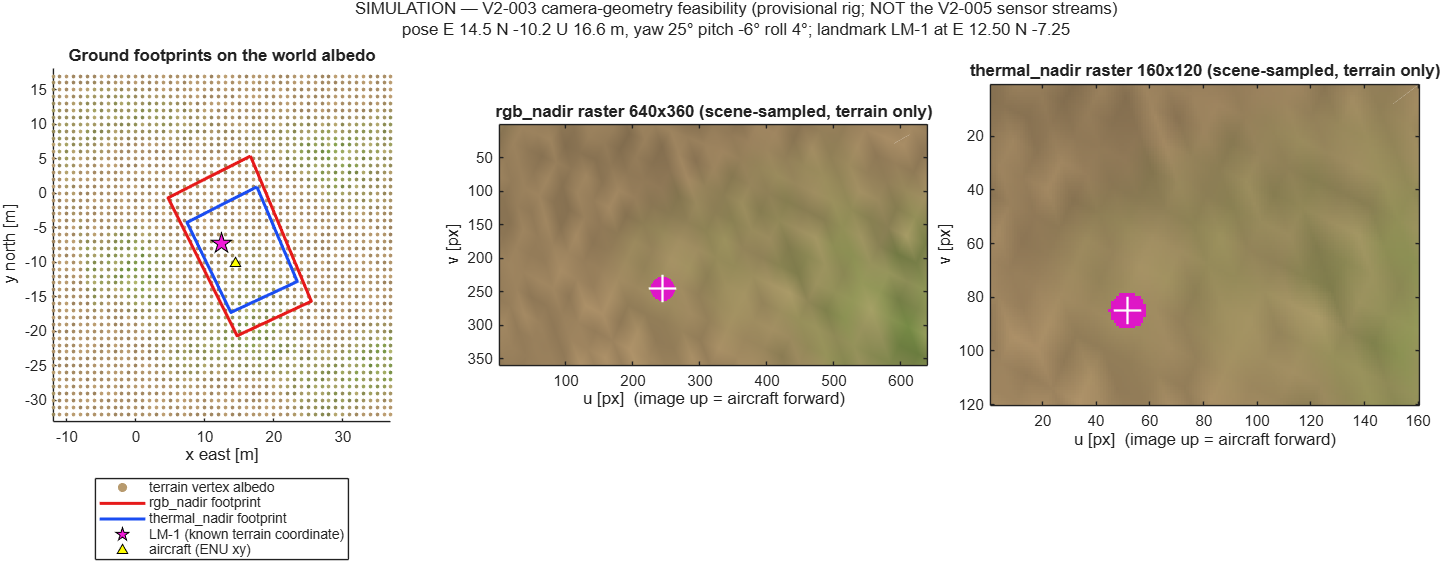
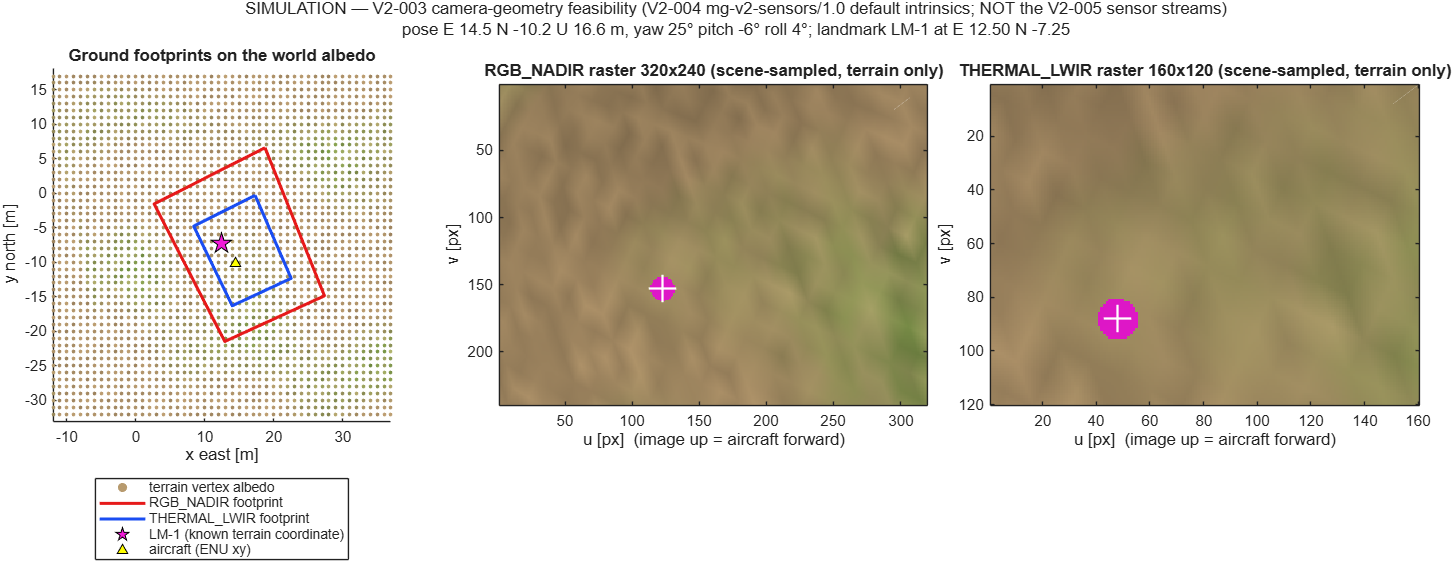
V2-003: evidence updated for V2-004 alignment (clean clone 3091e2f: 44/44; camera geometry at V2-004 intrinsics)

diff --git a/v2/evidence/V2-003.md b/v2/evidence/V2-003.md
@@ -5,7 +5,7 @@ Owner: Rahil
 Kind: BUILD
 Tester: Rahil, using Claude Code (Opus 5.5) through the official MathWorks MATLAB MCP Server (v0.16.0) on the development host, with a visible MATLAB desktop (real figures rendered)
 Date: 2026-11-01 (IST)
-Result: PASS for every V2-003 test that was executed on the development host. `testV2003Scene` has 19 tests: 19 PASS, 0 FAIL, 0 INCOMPLETE. Together with the V2-002 suite, a clean clone at `d7523d4` gives 41/41. The live integrated demo was run and real screenshots were captured. **The macOS target host is NOT TESTED** (§8).
+Result: PASS for every V2-003 test that was executed on the development host. `testV2003Scene` has 22 tests: 22 PASS, 0 FAIL, 0 INCOMPLETE. Together with the V2-002 suite, a clean clone at `3091e2f` gives **44/44**. The live integrated demo was run and real screenshots were captured. **The macOS target host is NOT TESTED** (§8).
 SIMULATION ONLY: a synthetic terrain and a virtual aircraft. No real camera feed, sensor stream or hazard map exists, and none is claimed.
 
 ## 1. Summary
@@ -42,9 +42,9 @@ The body origin sits at the gear-contact plane, so a pose at ground height stand
 
 Follow, chase and orbit keep the aircraft at the view centre, so it cannot be lost in turns, climbs or landing (s06, s09, s10).
 
-**Sensor geometry for V2-005** (`mgv2.scene.sensorRig`, PROVISIONAL pending V2-004):
-- nadir RGB 640×360 with 70° HFOV, and nadir thermal 160×120 with 50° HFOV, using pinhole intrinsics and explicit body→sensor extrinsics;
-- a nadir LiDAR entry;
+**Sensor geometry for V2-005** (`mgv2.scene.sensorRig`, **aligned to the frozen V2-004 contract `mg-v2-sensors/1.0`**, which reached DONE on `main` during this work; see §2a):
+- `RGB_NADIR` 320×240 with 70° HFOV, and `THERMAL_LWIR` 160×120 with 45° HFOV, using pinhole K with explicit zero distortion and an active `rotation_sensor_to_body` plus `translation_body_m`;
+- `LIDAR_TERRAIN` with a 100 m maximum range;
 - functions: `sensorPose`, `projectToImage`, `pixelRays`, `intersectTerrain`, `cameraFootprint`, and a scene-sampled raster `renderNadirRaster` for feasibility;
 - `toUavScenario` exports **the same triangles** as UAV Toolbox `"custom"` meshes. The toolbox LiDAR returns ranges matching `heightAt` (s17).
 
@@ -62,7 +62,27 @@ Research, the measured renderer spike and the decisions are in [`v2/docs/V2_002_
   - Pixel coordinates are 1-based with pixel centres at integers.
 - **UAV Toolbox LiDAR convention (verified):** on a NED/FRD `uavPlatform`, the sensor frame follows FRD, so **positive elevation points down**. `ElevationLimits [60 90]` sees the ground and `[-90 -60]` does not. The sensor must also be mounted outside the platform's own body mesh, or it returns self-hits (found and fixed during testing, s17).
 
-## 3. Source inventory (commit `d7523d4`, branch stacked on V2-002 `704106b`)
+## 2a. Alignment with V2-004 (frozen during this task)
+
+- V2-004 `mg-v2-sensors/1.0` was merged DONE on `main` (#51, #54) while V2-003 was in progress. The first rig was explicitly provisional, so it was **compared field by field and aligned rather than silently diverging**:
+  - controlled `sensor_id` values `RGB_NADIR` / `THERMAL_LWIR` / `LIDAR_TERRAIN`;
+  - RGB 320×240 at 70° (was 640×360) and thermal 45° HFOV (was 50°);
+  - LiDAR maximum range 100 m (was 60 m);
+  - mount as `translation_body_m` plus an active `rotation_sensor_to_body`;
+  - K with explicit zero distortion; `config_origin "ASSUMED"`.
+- **Already consistent, no change:**
+  - quaternion `[w x y z]` with T_world_body mapping body → ENU;
+  - optical frame +x right, +y down, +z along the axis;
+  - principal point ((W+1)/2, (H+1)/2) and fx = (W/2)/tan(HFOV/2);
+  - ENU world with NED only in the adapter.
+- **V2-004 items assigned to V2-003, now tested:**
+  - SC-06: nadir transform; yaw rotates the footprint and bank shifts it (s21);
+  - SC-16: rigid round trip < 1e-8 m (s22);
+  - analytical fixtures C2 (central ray from 5 m hits [10, 20, 0] at exactly 5 m) and C5 (fx = 228.50 px, cx = 160.5) (s20).
+- **Numeric mount offsets** (payload-pod positions) are V2-003 assumptions; V2-004 fixes the format, not the values.
+- **Not V2-003 scope:** the sample envelope, scheduler, Kelvin forward model, LiDAR noise and validity enumerations are V2-005.
+
+## 3. Source inventory (code commits `d7523d4` and `3091e2f`, branch stacked on V2-002)
 
 | File | Purpose |
 |---|---|
@@ -70,11 +90,11 @@ Research, the measured renderer spike and the decisions are in [`v2/docs/V2_002_
 | `heightAt.m`, `albedoAt.m`, `terrainProvider.m` | Queries on the drawn triangles; V2-002 terrain provider |
 | `objectMesh.m`, `quadrotorModel.m` | Deterministic object meshes; scaled quadrotor |
 | `SceneRenderer.m`, `cameraView.m`, `viewContains.m` | Renderer, 5 camera modes, conservative in-view check |
-| `sensorRig.m`, `sensorPose.m`, `projectToImage.m`, `pixelRays.m`, `intersectTerrain.m`, `cameraFootprint.m`, `renderNadirRaster.m` | Provisional sensor geometry for V2-005 |
+| `sensorRig.m`, `sensorPose.m`, `projectToImage.m`, `pixelRays.m`, `intersectTerrain.m`, `cameraFootprint.m`, `renderNadirRaster.m` | Sensor geometry for V2-005 (V2-004 default intrinsics; assumed mount offsets) |
 | `toUavScenario.m` | Export of the same geometry to UAV Toolbox meshes |
 | `v2/matlab/mgv2SceneDemo.m` | Live V2-002 engine → V2-003 scene demo (camera schedule, pacing, screenshots, timing) |
 | `v2/matlab/mgv2CameraGeometryDemo.m` | Landmark projection / back-projection / raster / footprint closed loop |
-| `v2/matlab/tests/testV2003Scene.m` | 19 tests |
+| `v2/matlab/tests/testV2003Scene.m` | 22 tests |
 
 **Dependencies:** `requiredFilesAndProducts` reports **MATLAB only** for every shipped V2-003 file except `toUavScenario.m`, which needs **UAV Toolbox** (optional for the display, used for V2-005 LiDAR). Test s17 is skipped by assumption when UAV Toolbox is absent.
 
@@ -84,7 +104,9 @@ Environment: Windows 11 Pro (build 26300), MATLAB R2026b Update 1 (26.2), UAV To
 
 ## 5. Commands and observed output
 
-Command: MCP `evaluate_matlab_code` in a **fresh `git clone`** of `task/V2-003-3d-terrain-visualization` at `d7523d486c89eb04c1a0916f5716c2735623742d` (other checkouts removed from the path; `which mgv2.scene.SceneRenderer` resolved to the clone). Outputs were written outside the clone.
+Command: MCP `evaluate_matlab_code` in **fresh `git clone`s** of `task/V2-003-3d-terrain-visualization` (other checkouts removed from the path; `which` resolved to the clone; outputs written outside the clone; `git status` clean afterwards):
+- `d7523d486c89eb04c1a0916f5716c2735623742d` for the live demo and screenshots. The renderer, world, cameras, aircraft and scene demo are unchanged at `3091e2f` (`git diff` empty).
+- **`3091e2f1d77b228eb09354022607e8171714a380`** (final code) for both test suites and the camera-geometry demo.
 
 ```matlab
 addpath('v2/matlab');
@@ -97,13 +119,15 @@ Observed output (verbatim):
 
 ```text
 testV2002MissionEngine   22 tests | PASS 22 | FAIL 0 | INCOMPLETE 0
-testV2003Scene           19 tests | PASS 19 | FAIL 0 | INCOMPLETE 0
-TOTAL 41 | PASS 41 | FAIL 0 | INCOMPLETE 0 | HEAD d7523d4
-PERF chase: 600 frames, median 24.3 ms, p95 42.0 ms, max 63.8 ms (update+drawnow, visible figure)
-PERF follow: 600 frames, median 23.4 ms, p95 37.4 ms, max 63.6 ms (update+drawnow, visible figure)
-PERF isometric: 600 frames, median 26.3 ms, p95 38.3 ms, max 72.6 ms (update+drawnow, visible figure)
-rgb_nadir: 640x360, landmark projects to (u,v)=(244.58, 245.74) in image=1; back-projected error 1.26e-13 m; raster centroid (244.63, 245.65) -> 0.10 px; valid pixels 230400/230400; footprint ok=1
-thermal_nadir: 160x120, landmark projects to (u,v)=(51.66, 84.99) in image=1; back-projected error 2.91e-14 m; raster centroid (51.82, 85.00) -> 0.16 px; valid pixels 19200/19200; footprint ok=1
+testV2003Scene           22 tests | PASS 22 | FAIL 0 | INCOMPLETE 0
+TOTAL 44 | PASS 44 | FAIL 0 | INCOMPLETE 0 | HEAD 3091e2f
+PERF chase: 600 frames, median 28.0 ms, p95 40.2 ms, max 59.4 ms (update+drawnow, visible figure)
+PERF follow: 600 frames, median 30.4 ms, p95 41.0 ms, max 70.8 ms (update+drawnow, visible figure)
+PERF isometric: 600 frames, median 28.2 ms, p95 43.0 ms, max 70.2 ms (update+drawnow, visible figure)
+RGB_NADIR: 320x240, landmark projects to (u,v)=(122.54, 153.12) in image=1; back-projected error 1.26e-13 m; raster centroid (122.58, 153.20) -> 0.09 px; valid pixels 76800/76800; footprint ok=1
+THERMAL_LWIR: 160x120, landmark projects to (u,v)=(48.04, 88.07) in image=1; back-projected error 2.91e-14 m; raster centroid (48.02, 88.06) -> 0.02 px; valid pixels 19200/19200; footprint ok=1
+
+(live demo, clone d7523d4)
 === MineGuard V2 3-D scene (V2-003) driven by the live mission engine (V2-002) — SIMULATION ONLY ===
 world V2-TRAINING-FIELD-A seed 3003: 25921 vertices, 51200 triangles, 79 objects | run V2RUN-NOMINAL-0001 | dt 0.050 s | render every 2 ticks
   t=   0.05 s  PREFLIGHT    AGL  0.00 m
@@ -132,11 +156,11 @@ git status in the clone afterwards: 0 changes
 | `V2-003-live-t139.95-COMPLETE-orbit.png` | 139.95 s COMPLETE | orbit | Aircraft standing on the pad (skids at ground level) |
 | `V2-003-live-t139.95-COMPLETE-isometric.png` | 139.95 s COMPLETE | isometric | Whole field: relief, survey boundary, pad, north arrow, screen marker |
 | `V2-003-live-t139.95-COMPLETE-topdown.png` | 139.95 s COMPLETE | top-down | Survey area, north up. The trail shows only the **last 600 rendered poses (~60 s)** by design (capped) |
-| `V2-003-camera-geometry-feasibility.png` | fixture pose | — | RGB/thermal ground footprints, landmark, scene-sampled rasters with the projected landmark crosshair |
+| `V2-003-camera-geometry-feasibility.png` | fixture pose (clone `3091e2f`) | — | `RGB_NADIR` 320×240 / `THERMAL_LWIR` 160×120 ground footprints, landmark, scene-sampled rasters with the projected landmark crosshair |
 
 These are actual renders of the simulation state at the stated simulation times. They are not concept art or mock-ups. The camera-geometry rasters are scene-sampled feasibility images of the synthetic terrain, **not** camera footage.
 
-## 7. Test results and traceability (`testV2003Scene.m`, 19/19 PASS)
+## 7. Test results and traceability (`testV2003Scene.m`, 22/22 PASS)
 
 | Test | Mandatory item / acceptance | What is checked |
 |---|---|---|
@@ -154,17 +178,21 @@ These are actual renders of the simulation state at the stated simulation times.
 | s12 | Landmark projection | RGB and thermal at 2 tilted poses: back-projection < 1 cm; landmark inside the footprint; raster centroid < 1.5 px from the projection |
 | s13 | ENU ↔ rendered coordinates | Transform translation, equal aspect, ENU labels, stalk/shadow on the terrain, north arrow along +y |
 | s14 | Stable repeated updates | 1,200 updates create no graphics objects; trail capped at 600 |
-| s15 | Measured performance | Median frame < 100 ms (logged medians 23–26 ms in the clean-clone run; see §8.5) |
+| s15 | Measured performance | Median frame < 100 ms (logged medians 28–30 ms in the final clean-clone run; see §8.5) |
 | s16 | Cleanup / re-initialisation | 3× create/delete leaves no figures; a caller's axes is emptied but not deleted |
 | s17 | Geometry usable by UAV Toolbox (V2-005 LiDAR) | Near-nadir `uavLidarPointCloudGenerator` range = AGL from `heightAt` − mount (±1 cm), > 1,000 returns |
 | s18 | Truth firewall / invalid scene inputs | No target/truth/label/mine fields; `targets` field, bad spacing, home outside → `mgv2:InvalidSceneConfig` |
 | s19 | Invalid poses | Missing quaternion, NaN position, non-unit quaternion, infinite time → `mgv2:InvalidPose` with the scene unchanged; TeX-safe HUD phase text |
+| s20 | V2-004 fixtures C2/C5 | Flat world: central ray from [10, 20, 5] hits [10, 20, 0] at exactly 5 m (1e-9); fx = 228.50 px, cx = 160.5 for 320 px at 70° |
+| s21 | V2-004 SC-06 | Level: the centre ray hits directly below the camera; a 37° yaw rotates the footprint about the aircraft (1e-6 m); a 10° right-wing-down bank shifts the footprint 20·tan 10° **toward the raised (left) wing**, because the belly points left |
+| s22 | V2-004 SC-16 | 50 random asymmetric poses × 3 sensors: p_world = R_wb(R_bs p_s + t_b) + p_w and the inverse round trip, both < 1e-8 m |
 
 ### Defects found by testing and fixed before the clean run
 1. **Floating objects:** objects were seated on a 12-point ring, but jittered meshes extend beyond it, giving up to 17 mm of float. They are now seated on the actual mesh footprint with a 3 cm embed.
 2. **Handle-name collision:** the UAV screen marker overwrote the survey-corner marker group handle, so cleanup left one object behind. Both are now renamed.
 3. **LiDAR self-hit:** the sensor returned 5 mm hits from the platform's own body. It is now mounted outside the body, and the FRD elevation sign is documented.
 4. **HUD:** the TeX interpreter turned `RETURN_HOME` into a subscript. Now escaped, with a regression check.
+6. **Test expectation error (not a code defect):** the first SC-06 bank assertion expected the footprint to move to the lowered wing. The geometry is correct the other way, and the test now asserts the physically correct direction.
 5. **Visual review of the first render:** the terrain was too dark and the axes box walls were visible. The albedo and lighting were rebalanced, the axes hidden on a sky background, and a north arrow added.
 
 ## 8. Known limitations and outstanding issues
@@ -177,9 +205,9 @@ These are actual renders of the simulation state at the stated simulation times.
    mgv2CameraGeometryDemo
    ```
 2. **Rendering is native MATLAB graphics.** It is credible engineering visualisation, not photorealism: there are no cast shadows except the aircraft's ground shadow, no textures beyond per-vertex colour, and no Unreal (unsupported on macOS).
-3. **The camera rasters are a feasibility proof only.** They are terrain-only (rocks, bushes and markers are not ray-traced), with Lambert shading and no noise, exposure or distortion. The final RGB/thermal/LiDAR streams belong to V2-005 after V2-004 freezes the sensor contract. The rig values are **PROVISIONAL**.
+3. **The camera rasters are a feasibility proof only.** They are terrain-only (rocks, bushes and markers are not ray-traced), with Lambert shading and no noise, exposure or distortion. The `mg-v2-sensors/1.0` streams (envelope, scheduler, Kelvin model, LiDAR noise/validity) are V2-005 work. The intrinsics follow the V2-004 defaults; the mount offsets are assumptions.
 4. Rotors are static discs (no spin animation), chosen to keep one transform per frame.
-5. **Performance:** the measured frame time varies between runs on the development host. Live demo at 1× in the clean clone: median 6.7 ms, p95 66.0 ms, max 211.8 ms (the max includes screenshot frames), 9.9 FPS effective at the decimated 10 Hz target. An earlier working-copy live run gave a 31.0 ms median. In the same suite a pre-fix run gave a 53–55 ms median, while the post-fix runs gave 23–26 ms. Both are within the ≥ 10 FPS target, and the scene is decimated to every 2nd engine tick (10 Hz). It must be re-measured on the Mac (AC-025, V2-008).
+5. **Performance:** the measured frame time varies between runs on the development host. Live demo at 1× in the clean clone: median 6.7 ms, p95 66.0 ms, max 211.8 ms (the max includes screenshot frames), 9.9 FPS effective at the decimated 10 Hz target. An earlier working-copy live run gave a 31.0 ms median. In the same suite a pre-fix run gave a 53–55 ms median, while the post-fix runs gave 23–31 ms. Both are within the ≥ 10 FPS target, and the scene is decimated to every 2nd engine tick (10 Hz). It must be re-measured on the Mac (AC-025, V2-008).
 6. `intersectTerrain` marches in 0.25 m steps. Terrain features thinner than that could be stepped over (not present in this smooth world).
 
 ## 9. Research
